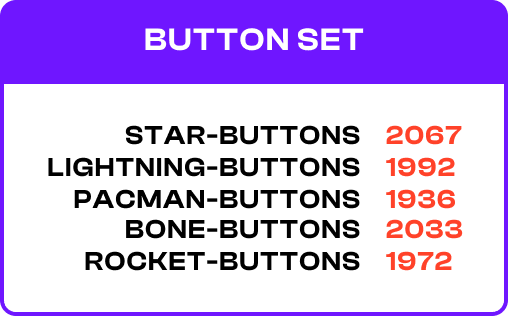
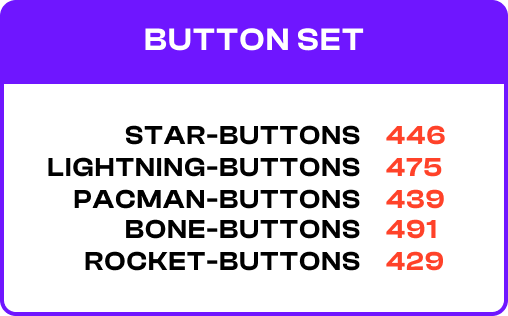
New Rarity table.

diff --git a/index.html b/index.html
@@ -239,13 +239,46 @@
           </div>
 
           <div class="row">
-            <div class="col-md-12">
-              <h4 class="text-center">Being updated...</h4>
+            <div class="col-xxs-12 col-xs-4 col-sm-4 col-md-4">
+              <img src="assets/rarity-case-shape.png" class="img-fluid" alt="Case shape">
             </div>
-            <div class="col-md-4 col-md-offset-4">
-              <div style="width:100%;height:0;padding-bottom:100%;position:relative;"><iframe src="https://giphy.com/embed/E6jscXfv3AkWQ" width="100%" height="100%" style="position:absolute" frameBorder="0" class="giphy-embed" allowFullScreen></iframe></div><p></p>
+            <div class="col-xxs-12 col-xs-4 col-sm-4 col-md-4">
+              <img src="assets/rarity-case-color.png" class="img-fluid" alt="Case color">
             </div>
-
+            <div class="col-xxs-12 col-xs-4 col-sm-4 col-md-4">
+              <img src="assets/rarity-button-set.png" class="img-fluid" alt="Button set">
+            </div>
+          </div>
+          <div class="row">
+            <div class="clearfix visible-xs"></div>
+            <div class="col-xxs-12 col-xs-4 col-sm-4 col-md-4">
+              <img src="assets/rarity-scene.png" class="img-fluid" alt="Scene">
+            </div>
+            <div class="ccol-xxs-12 col-xs-4 col-sm-4 col-md-4">
+              <img src="assets/rarity-pet-race.png" class="img-fluid" alt="Pet race">
+            </div>
+            <div class="col-xxs-12 col-xs-4 col-sm-4 col-md-4">
+              <img src="assets/rarity-pet-color.png" class="img-fluid" alt="Pet color">
+            </div>
+            <div class="clearfix visible-xs visible-sm"></div>
+            <div class="col-xxs-12 col-xs-4 col-sm-4 col-md-4">
+              <img src="assets/rarity-eyes.png" class="img-fluid" alt="Eyes">
+            </div>
+            <div class="col-xxs-12 col-xs-4 col-sm-4 col-md-4">
+              <img src="assets/rarity-mouth.png" class="img-fluid" alt="Mouth">
+            </div>
+            <div class="clearfix visible-sm"></div>
+            <div class="col-xxs-12 col-xs-4 col-sm-4 col-md-4">
+              <img src="assets/rarity-hair.png" class="img-fluid" alt="Hair style">
+            </div>
+          </div>
+          <div class="row">
+            <div class="col-xxs-12 col-xs-4 col-xs-offset-2 col-sm-4 col-sm-offset-2 col-md-4 col-md-offset-2">
+              <img src="assets/rarity-facial.png" class="img-fluid" alt="Facial features">
+            </div>
+            <div class="col-xxs-12 col-xs-4 col-sm-4 col-md-4">
+              <img src="assets/rarity-clothes.png" class="img-fluid" alt="Clothes">
+            </div>
           </div>
 
 
